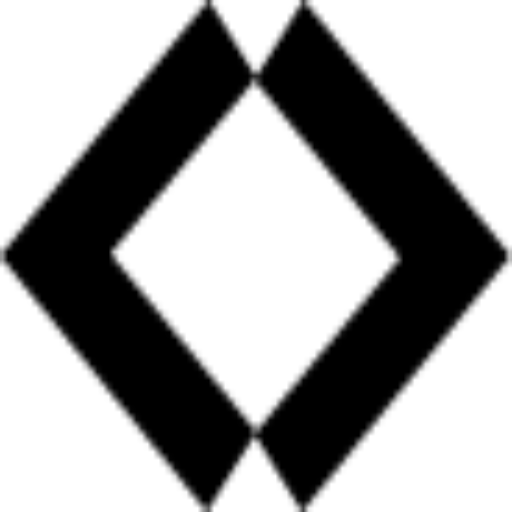
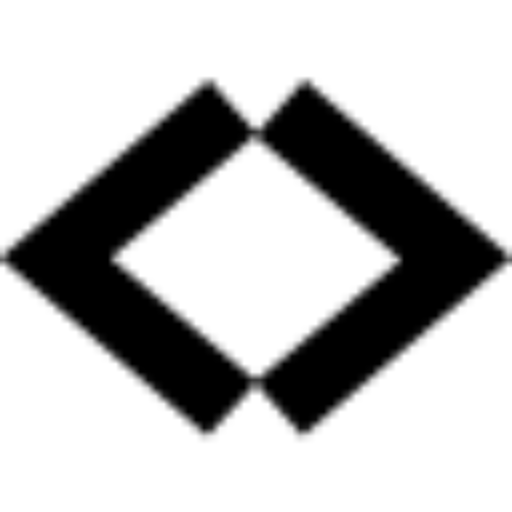
Updated branding

Changed region(s): [[0.0, 0.0, 1.0, 1.0]]

diff --git a/app/common/templates/_macros/wordmark.html b/app/common/templates/_macros/wordmark.html
@@ -1,0 +1,15 @@
+{% macro wordmark_svg(styles) %}
+<svg width="369" height="64" viewBox="0 0 369 64" fill="none" xmlns="http://www.w3.org/2000/svg" class="{{ styles }}">
+  <path d="M24.3351 46.9517L0 26.0537L24.5414 5.087L30.1783 11.4801L12.9925 25.9162L30.1783 40.4211L24.3351 46.9517Z" fill="currentColor"/>
+  <path d="M54.8303 50.5951C51.6681 50.5951 48.8496 49.8389 46.3749 48.3265C43.9459 46.8142 42.0211 44.7519 40.6004 42.1396C39.2256 39.5274 38.5381 36.5485 38.5381 33.203C38.5381 29.8575 39.2256 26.8786 40.6004 24.2664C42.0211 21.6541 43.9459 19.5918 46.3749 18.0795C48.8496 16.5671 51.6681 15.811 54.8303 15.811C57.1217 15.811 59.184 16.2463 61.0172 17.1171C62.8962 17.9878 64.4314 19.2023 65.623 20.7605C66.8604 22.2728 67.5478 24.0143 67.6853 25.985V40.0773C67.5478 42.048 66.8833 43.8353 65.6917 45.4393C64.5002 46.9975 62.9649 48.2578 61.0859 49.2202C59.2069 50.1368 57.1217 50.5951 54.8303 50.5951ZM56.6864 41.1085C58.1987 41.1085 59.5048 40.7877 60.6047 40.1461C61.7046 39.4586 62.5754 38.5192 63.217 37.3276C63.8586 36.1361 64.1794 34.7612 64.1794 33.203C64.1794 31.6448 63.8586 30.2929 63.217 29.1472C62.6212 27.9556 61.7504 27.0161 60.6047 26.3287C59.5048 25.6412 58.2216 25.2975 56.7551 25.2975C55.2886 25.2975 53.9825 25.6412 52.8367 26.3287C51.7368 27.0161 50.8432 27.9556 50.1557 29.1472C49.5141 30.3387 49.1933 31.6907 49.1933 33.203C49.1933 34.7154 49.5141 36.0673 50.1557 37.2589C50.7974 38.4504 51.691 39.3899 52.8367 40.0773C53.9825 40.7648 55.2657 41.1085 56.6864 41.1085ZM74.0784 49.9076H63.7669V40.9023L65.348 32.7905L63.5607 24.6788V0H74.0784V49.9076Z" fill="currentColor"/>
+  <path d="M97.9823 50.6638C94.3618 50.6638 91.1309 49.9305 88.2895 48.464C85.4939 46.9517 83.2941 44.8665 81.6901 42.2084C80.0861 39.5503 79.2841 36.5485 79.2841 33.203C79.2841 29.8575 80.0632 26.8786 81.6214 24.2664C83.2254 21.6083 85.3793 19.5231 88.0832 18.0107C90.7871 16.4984 93.8348 15.7422 97.2261 15.7422C100.526 15.7422 103.436 16.4526 105.956 17.8733C108.477 19.2939 110.448 21.2646 111.868 23.7852C113.335 26.3058 114.068 29.193 114.068 32.4468C114.068 33.0426 114.022 33.6842 113.931 34.3716C113.885 35.0132 113.77 35.7694 113.587 36.6402L84.7836 36.7089V29.4909L109.119 29.4221L104.582 32.4468C104.536 30.522 104.238 28.9409 103.688 27.7035C103.138 26.4203 102.313 25.4579 101.213 24.8163C100.159 24.1289 98.853 23.7852 97.2948 23.7852C95.645 23.7852 94.2014 24.1747 92.964 24.9538C91.7725 25.6871 90.833 26.7411 90.1455 28.116C89.5039 29.4909 89.1831 31.1636 89.1831 33.1343C89.1831 35.1049 89.5269 36.8006 90.2143 38.2213C90.9475 39.5961 91.9558 40.6731 93.239 41.4522C94.568 42.1855 96.1262 42.5521 97.9135 42.5521C99.5634 42.5521 101.053 42.2771 102.382 41.7272C103.711 41.1314 104.88 40.2607 105.888 39.1149L111.662 44.8894C110.012 46.8142 108.019 48.2578 105.682 49.2202C103.344 50.1826 100.778 50.6638 97.9823 50.6638Z" fill="currentColor"/>
+  <path d="M129.126 49.9076L114.965 16.4984H126.307L135.931 44.3394H130.982L140.606 16.4984H151.742L137.581 49.9076H129.126Z" fill="currentColor"/>
+  <path d="M166.758 50.7325C164.788 50.7325 162.84 50.4805 160.915 49.9764C159.036 49.4723 157.272 48.7619 155.622 47.8453C154.018 46.8829 152.643 45.783 151.497 44.5456L157.478 38.4962C158.578 39.6878 159.884 40.6273 161.396 41.3147C162.909 41.9563 164.559 42.2771 166.346 42.2771C167.583 42.2771 168.523 42.0938 169.164 41.7272C169.852 41.3605 170.195 40.8564 170.195 40.2148C170.195 39.3899 169.783 38.7712 168.958 38.3588C168.179 37.9005 167.171 37.5109 165.933 37.1901C164.696 36.8235 163.39 36.4339 162.015 36.0215C160.64 35.609 159.334 35.0362 158.097 34.3029C156.859 33.5696 155.851 32.5614 155.072 31.2782C154.293 29.9492 153.903 28.2764 153.903 26.2599C153.903 24.106 154.453 22.2499 155.553 20.6917C156.653 19.0877 158.211 17.8274 160.228 16.9108C162.244 15.9943 164.604 15.536 167.308 15.536C170.15 15.536 172.762 16.0401 175.145 17.0483C177.574 18.0107 179.545 19.4543 181.057 21.3792L175.076 27.4286C174.022 26.1912 172.831 25.3204 171.502 24.8163C170.218 24.3122 168.958 24.0601 167.721 24.0601C166.529 24.0601 165.636 24.2435 165.04 24.6101C164.444 24.9309 164.146 25.4121 164.146 26.0537C164.146 26.7411 164.536 27.2911 165.315 27.7035C166.094 28.116 167.102 28.4826 168.339 28.8034C169.577 29.1242 170.883 29.5138 172.258 29.9721C173.633 30.4304 174.939 31.0491 176.176 31.8281C177.414 32.6072 178.422 33.6613 179.201 34.9903C179.98 36.2735 180.369 37.9692 180.369 40.0773C180.369 43.3312 179.132 45.9205 176.657 47.8453C174.228 49.7701 170.929 50.7325 166.758 50.7325Z" fill="currentColor"/>
+  <path d="M202.23 50.6638C198.793 50.6638 195.677 49.9076 192.881 48.3953C190.086 46.8829 187.886 44.7977 186.282 42.1396C184.678 39.4816 183.876 36.5027 183.876 33.203C183.876 29.8575 184.678 26.8786 186.282 24.2664C187.932 21.6083 190.154 19.5231 192.95 18.0107C195.746 16.4984 198.885 15.7422 202.368 15.7422C204.98 15.7422 207.363 16.2005 209.517 17.1171C211.717 17.9878 213.665 19.3169 215.36 21.1042L208.624 27.841C207.844 26.9703 206.928 26.3287 205.874 25.9162C204.866 25.5038 203.697 25.2975 202.368 25.2975C200.856 25.2975 199.504 25.6412 198.312 26.3287C197.166 26.9703 196.25 27.8869 195.562 29.0784C194.921 30.2241 194.6 31.5761 194.6 33.1343C194.6 34.6924 194.921 36.0673 195.562 37.2589C196.25 38.4504 197.189 39.3899 198.381 40.0773C199.572 40.7648 200.901 41.1085 202.368 41.1085C203.743 41.1085 204.957 40.8793 206.011 40.4211C207.111 39.9169 208.051 39.2295 208.83 38.3588L215.498 45.0956C213.756 46.9288 211.786 48.3265 209.586 49.2889C207.386 50.2055 204.934 50.6638 202.23 50.6638Z" fill="currentColor"/>
+  <path d="M220.179 49.9076V16.4984H230.697V49.9076H220.179ZM230.697 31.5532L226.297 28.116C227.168 24.2206 228.634 21.1958 230.697 19.0419C232.759 16.8879 235.623 15.811 239.289 15.811C240.893 15.811 242.291 16.063 243.483 16.5671C244.72 17.0254 245.797 17.7587 246.714 18.7669L240.458 26.6724C240 26.1683 239.427 25.7787 238.74 25.5038C238.052 25.2288 237.273 25.0913 236.402 25.0913C234.661 25.0913 233.263 25.6412 232.209 26.7411C231.201 27.7952 230.697 29.3992 230.697 31.5532Z" fill="currentColor"/>
+  <path d="M249.516 49.9076V16.4984H260.033V49.9076H249.516ZM254.809 11.8926C253.159 11.8926 251.784 11.3426 250.684 10.2427C249.63 9.09703 249.103 7.72216 249.103 6.11815C249.103 4.46831 249.63 3.09345 250.684 1.99355C251.784 0.893662 253.159 0.343716 254.809 0.343716C256.459 0.343716 257.811 0.893662 258.865 1.99355C259.919 3.09345 260.446 4.46831 260.446 6.11815C260.446 7.72216 259.919 9.09703 258.865 10.2427C257.811 11.3426 256.459 11.8926 254.809 11.8926Z" fill="currentColor"/>
+  <path d="M286.688 50.5951C284.442 50.5951 282.38 50.1597 280.501 49.2889C278.622 48.4182 277.087 47.2266 275.895 45.7143C274.704 44.1561 274.016 42.3917 273.833 40.4211V26.3287C274.016 24.358 274.704 22.5707 275.895 20.9667C277.087 19.3627 278.622 18.1024 280.501 17.1858C282.38 16.2692 284.442 15.811 286.688 15.811C289.85 15.811 292.646 16.5671 295.075 18.0795C297.549 19.5918 299.474 21.6541 300.849 24.2664C302.27 26.8786 302.98 29.8575 302.98 33.203C302.98 36.5485 302.27 39.5274 300.849 42.1396C299.474 44.7519 297.549 46.8142 295.075 48.3265C292.646 49.8389 289.85 50.5951 286.688 50.5951ZM267.44 64V16.4984H277.958V25.0913L276.239 33.203L277.82 41.3147V64H267.44ZM284.763 41.1085C286.276 41.1085 287.582 40.7648 288.682 40.0773C289.827 39.3899 290.721 38.4504 291.363 37.2589C292.004 36.0673 292.325 34.7154 292.325 33.203C292.325 31.6448 292.004 30.27 291.363 29.0784C290.721 27.8869 289.827 26.9703 288.682 26.3287C287.582 25.6412 286.298 25.2975 284.832 25.2975C283.365 25.2975 282.059 25.6412 280.914 26.3287C279.814 26.9703 278.943 27.8869 278.301 29.0784C277.66 30.27 277.339 31.6448 277.339 33.203C277.339 34.7154 277.637 36.0673 278.233 37.2589C278.874 38.4504 279.768 39.3899 280.914 40.0773C282.059 40.7648 283.342 41.1085 284.763 41.1085Z" fill="currentColor"/>
+  <path d="M312.395 49.9076V2.68099H322.913V49.9076H312.395ZM304.833 25.435V16.4984H330.475V25.435H304.833Z" fill="currentColor"/>
+  <path d="M343.977 5.087L368.312 25.985L343.771 46.9517L338.134 40.5585L355.32 26.1224L338.134 11.6176L343.977 5.087Z" fill="currentColor"/>
+</svg>
+{% endmacro %}

diff --git a/app/common/templates/_layouts/base.html b/app/common/templates/_layouts/base.html
@@ -1,3 +1,5 @@
+{% from "common/templates/_macros/wordmark.html" import wordmark_svg %}
+
 <!DOCTYPE html>
 <html lang="en" class="{{ 'h-full max-h-full' if max_full_height else '' }}">
 <head>
@@ -59,10 +61,7 @@
             <nav class="flex  h-16 items-center justify-between w-full bg-yellow-950 rounded-full px-6 md:px-8 shadow-md">
                 <div class="flex flex-row items-center justify-start space-x-4">
                     <a href="{{ url_for('index') }}" class="flex items-center shrink-0 gap-1 text-white hover:text-yellow-500">
-                        <svg xmlns="http://www.w3.org/2000/svg" fill="none" viewBox="0 0 24 24" stroke-width="1.5" stroke="currentColor" class="size-6">
-                            <path stroke-linecap="round" stroke-linejoin="round" d="M14.25 9.75 16.5 12l-2.25 2.25m-4.5 0L7.5 12l2.25-2.25M6 20.25h12A2.25 2.25 0 0 0 20.25 18V6A2.25 2.25 0 0 0 18 3.75H6A2.25 2.25 0 0 0 3.75 6v12A2.25 2.25 0 0 0 6 20.25Z" />
-                        </svg>
-                        <span class="text-current text-xl font-bold">devscript</span>
+                        {{ wordmark_svg("text-white h-5 w-auto")}}
                     </a>
                     <div class="hidden sm:flex flex-row items-center justify-center space-x-1 shrink-0">
                         <a

diff --git a/app/common/templates/index.html b/app/common/templates/index.html
@@ -8,10 +8,7 @@
             <!-- Hero Logo -->
             <div class="flex justify-center mb-12">
                 <div class="flex items-center gap-3">
-                    <svg xmlns="http://www.w3.org/2000/svg" fill="none" viewBox="0 0 24 24" stroke-width="1.5" stroke="currentColor" class="size-12 text-yellow-950">
-                        <path stroke-linecap="round" stroke-linejoin="round" d="M14.25 9.75 16.5 12l-2.25 2.25m-4.5 0L7.5 12l2.25-2.25M6 20.25h12A2.25 2.25 0 0 0 20.25 18V6A2.25 2.25 0 0 0 18 3.75H6A2.25 2.25 0 0 0 3.75 6v12A2.25 2.25 0 0 0 6 20.25Z" />
-                    </svg>
-                    <span class="text-3xl font-bold text-yellow-950">devscript</span>
+                    {{ wordmark_svg("text-yellow-950 h-12 w-auto")}}
                 </div>
             </div>
             <h1 class="text-3xl md:text-5xl font-bold text-stone-900 mb-6">Your Code Snippets,<br>Organized and Accessible</h1>

diff --git a/app/common/templates/email/welcome_email.html b/app/common/templates/email/welcome_email.html
@@ -3,7 +3,7 @@
 {% block content %}
 <tr>
     <td class="content-cell">
-        <h1>Welcome to devScript!</h1>
+        <h1>Welcome to devscript!</h1>
         <p>Hello,</p>
         <p>We are excited to have you on board, please click the link below to get started:</p>
         <table class="body-action" align="center" width="100%" cellpadding="0" cellspacing="0">

diff --git a/app/auth/utils.py b/app/auth/utils.py
@@ -86,7 +86,7 @@ async def send_welcome_email(request, email: str):
     """Send a password reset email to the user"""
     await send_email_async(
         email_to=email,
-        subject="Welcome to devScript",
+        subject="Welcome to devscript",
         template_vars={"welcome_url": str(request.url_for("auth.login"))},
         template_name="welcome_email.html",
     )

diff --git a/app/app.py b/app/app.py
@@ -18,7 +18,7 @@ from app.settings import settings
 from app.snippets import router as snippets_router
 
 app = FastAPI(
-    title="Devscript",
+    title="devscript",
     summary="A code snippet manager",
     docs_url=None,
     redoc_url=None,
